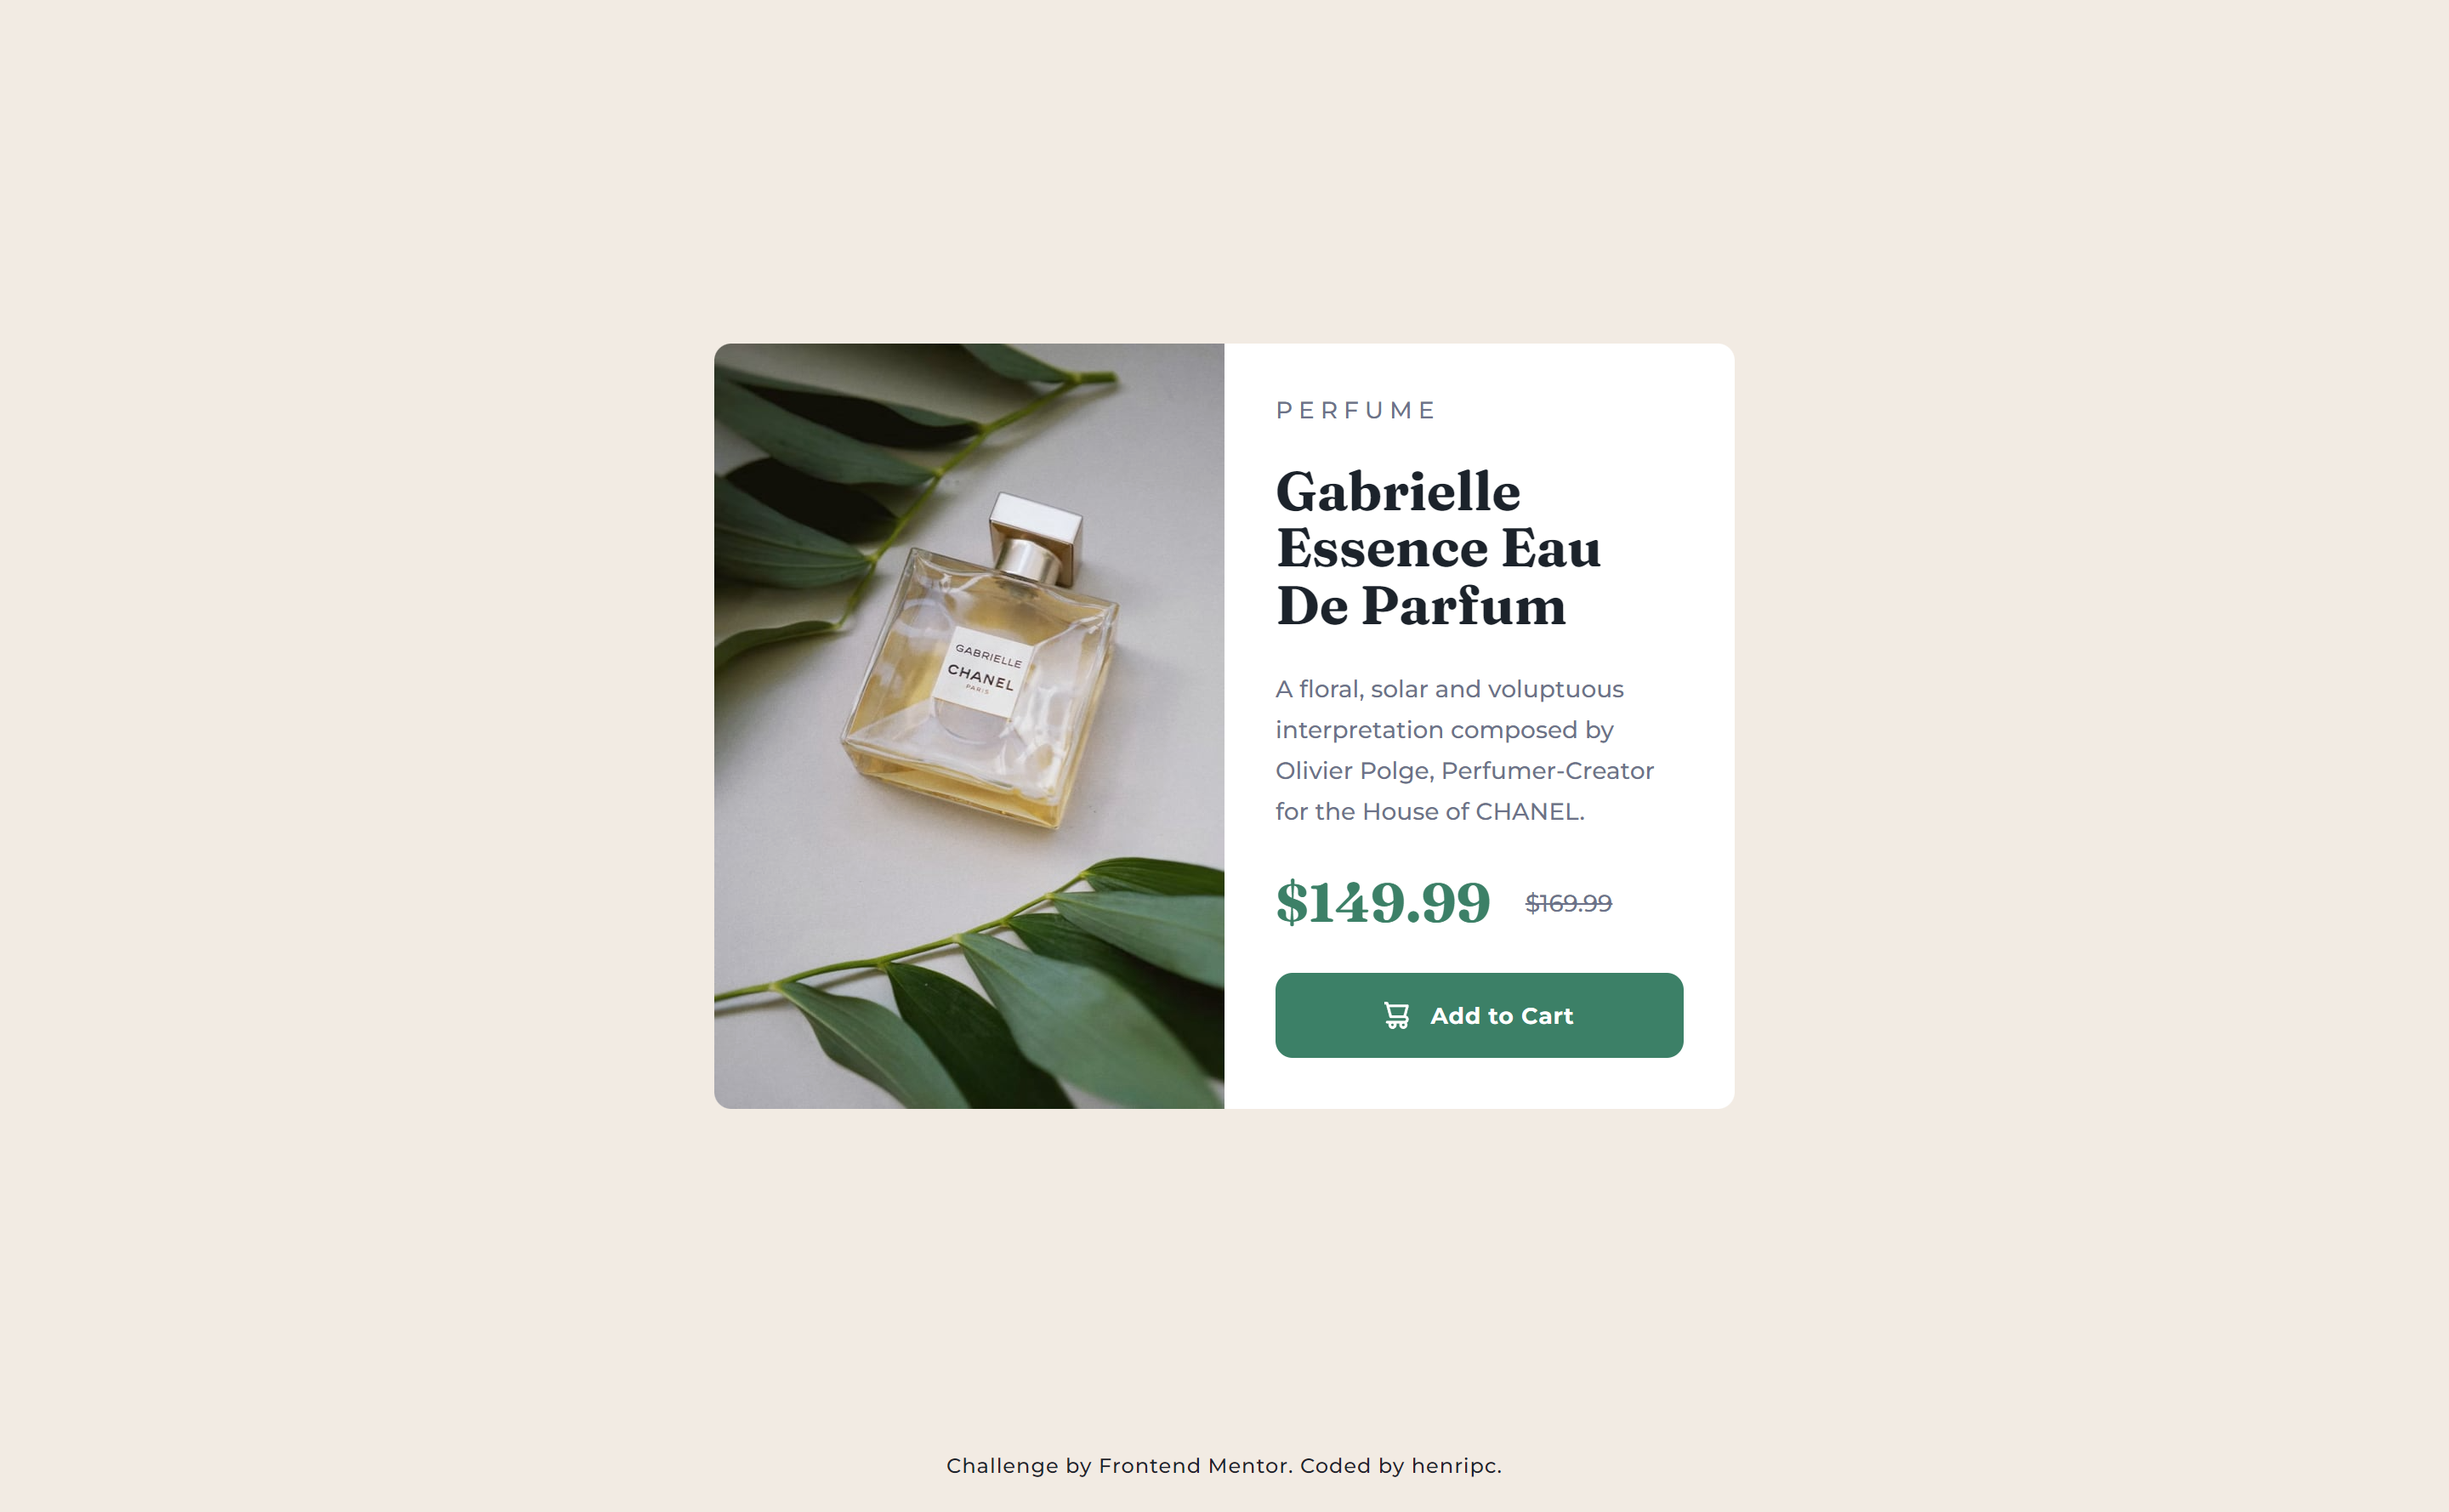
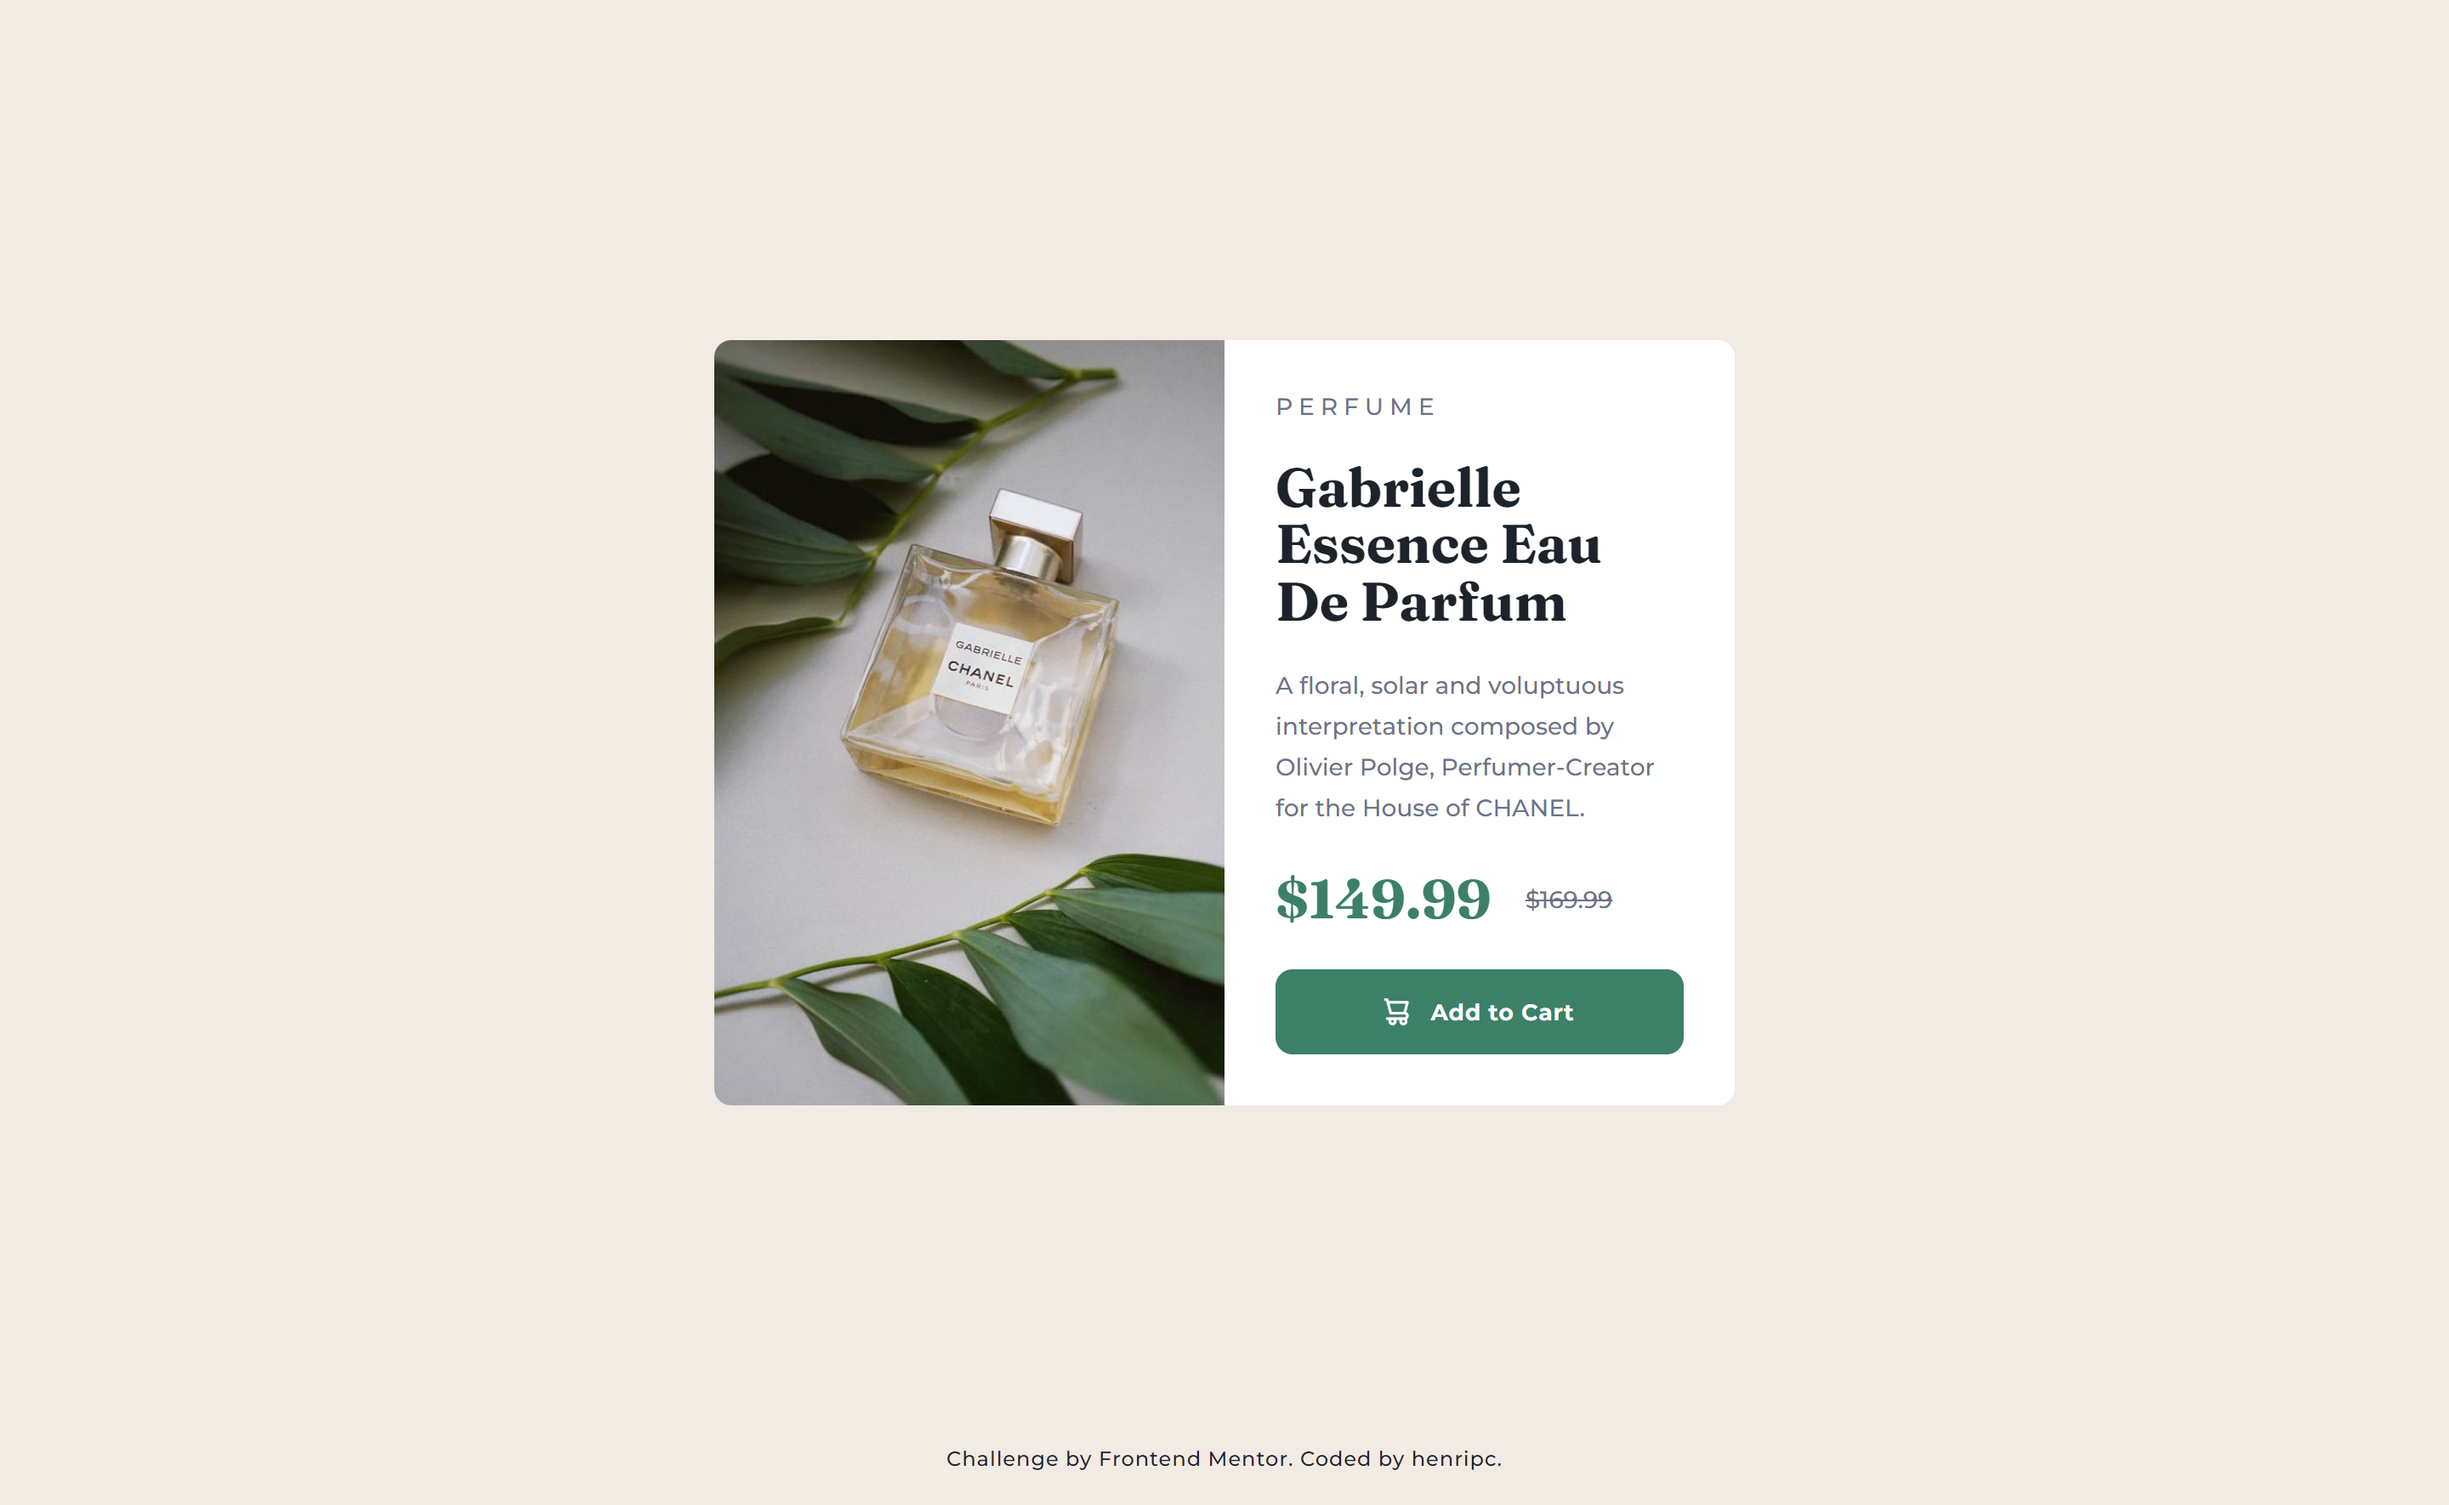
Update css.
Changed the image on mobile version.
Removed 100vw and 100vh.

diff --git a/product-preview-card/style.css b/product-preview-card/style.css
@@ -29,7 +29,7 @@ body {
   font-family: "Montserrat", sans-serif;
   overflow-x: hidden;
   font-size: 1.4rem;
-  background-color: var(--primary-cream)
+  background-color: var(--primary-cream);
 }
 
 /* MAIN */
@@ -37,8 +37,7 @@ body {
   display: flex;
   align-items: center;
   justify-content: center;
-  width: 100vw;
-  height: 100vh;
+  margin: 20rem auto 20rem auto;
 }
 
 /* CONTAINER */
@@ -174,6 +173,10 @@ body {
 
 /* MEDIAS */
 @media screen and (max-width: 640px) {
+  .main {
+    margin: 5rem auto 10rem auto;
+  }
+
   .container {
     display: flex;
     flex-direction: column;
@@ -184,7 +187,8 @@ body {
 
   /* CONTAINER IMAGE */
   .container-img {
-    background-size: 100% 540px;
+    background-image: url('./img/image-product-mobile.jpg');
+    background-size: cover;
     height: 40%;
     width: 100%;
     border-radius: 1rem 1rem 0 0;
